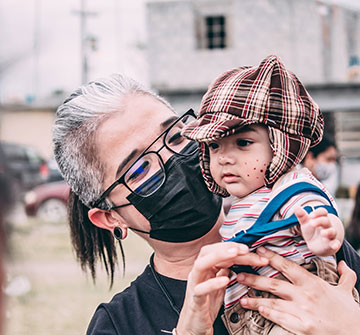
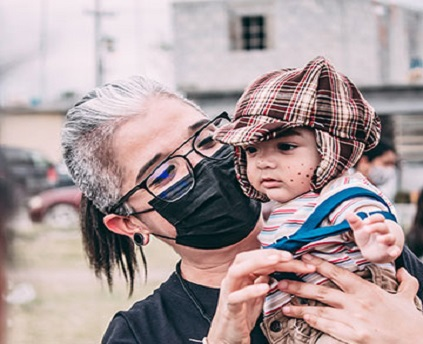
done with website

diff --git a/index.html b/index.html
@@ -71,14 +71,14 @@
             <div class="container">
                 <div class="header__inner-1">
                     <div class="logo">
-                        <img src="assets/img/logo/logo.png" alt="logo">
+                        <img src="assets/img/logo/logo.png" style="height: 90px;" alt="logo">
                     </div>
                     <div class="navbar">
                         <ul class="header__menu-1" id="mobile-menu">
                             <li><a href="#hero">Home</a></li>
-                            <li><a href="#service">Services</a></li>
-                            <li><a href="#portfolio">Portfolio</a></li>
-                            <li><a href="#blog">Blog</a></li>
+                            <li><a href="#aboutus">About Us</a></li>
+                            <li><a href="#gallery">Gallery</a></li>
+                            <li><a href="#ourworks">Our Works</a></li>
                             <li><a href="#donate">Donate</a></li>
                         </ul>
                     </div>
@@ -109,21 +109,8 @@
                         <div class="heroright1">
                             <span class="box1"></span>
                             <span class="box2"></span>
-                            <div class="box3">
-                                <span class="box3__count">10</span>
-                                <span class="box3__years">Years Of<br>
-                                    Together</span>
-                            </div>
-                            <div class="box3 box4">
-                                <span class="box3__count">600</span>
-                                <span class="box3__years">Projects <br>
-                                    Hope</span>
-                            </div>
-                            <div class="box5">
-                                <img src="assets/img/hero/trophy.png" alt="trophy">
-                            </div>
                             <div class="heroright1__thumb">
-                                <img src="assets/img/hero/with-box.png" alt="main-hero">
+                                <img src="assets/img/hero/women_empowerment_hero.png" style="width: 885px; scale: 0.6;" alt="main-hero">
                             </div>
                         </div>
                     </div>
@@ -136,17 +123,7 @@
                     <h2 class="title">Hope For All</h2>
                 </div>
                 <div class="responsive__thumb">
-                    <img src="assets/img/hero/with-box.png" alt="main-hero">
-                    <div class="box3 res-box3">
-                        <span class="box3__count res__count">10</span>
-                        <span class="box3__years">Years Of<br>
-                            Together</span>
-                    </div>
-                    <div class="box3 box4 res-box4">
-                        <span class="box3__count res2__count">600</span>
-                        <span class="box3__years res2__years">Projects of<br>
-                            Completion</span>
-                    </div>
+                    <img src="assets/img/hero/women_empowerment_hero.png" alt="main-hero" style="scale: 0.8;">
                 </div>
                 <p class="hero1__dis1">Empowering Lives Through Education and Support</p>
                 <p class="hero1__dis2">Lighting the Path to Education, Equality, and Empowerment.</p>
@@ -155,8 +132,8 @@
         </div>
         <!-- /hero  -->
 
-        <!-- service  -->
-        <div class="service__area-1" id="service" style="padding: 30px 0px;">
+        <!-- aboutus  -->
+        <div class="service__area-1" id="aboutus" style="padding: 30px 0px;">
             <div class="container">
                 <div class="col-xl-12 text-center">
                     <div class="section__wrapper">
@@ -215,7 +192,7 @@
                 </div>
             </div>
         </div>
-        <!-- /service  -->
+        <!-- /aboutus  -->
 
         <!-- counter  -->
         <div class="counter__area-1">
@@ -256,8 +233,8 @@
         </div>
         <!-- /counter  -->
 
-        <!-- portfolio -->
-        <div class="portfolio__area-1 pt-145" id="portfolio">
+        <!-- gallery -->
+        <div class="portfolio__area-1 pt-145" id="gallery">
             <div class="container">
                 <div class="col-xl-12 text-center">
                     <div class="section__wrapper">
@@ -293,7 +270,7 @@
                         <div class="portfolio mb-30 wow animate__animated animate__fadeIn" data-wow-duration=".5s"
                             data-wow-delay=".9s">
                             <div class="portfolio__thumb">
-                                <img src="assets/img/works/women_3.jpg" alt="">
+                                <img src="assets/img/works/women_3.jpg" alt="" style="width: 100%; height: 350px;">
                                 <a class="popup-image" href="assets/img/portfolio/port2.jpg">
                                     <i class="ti-plus"></i>
                                 </a>
@@ -335,7 +312,7 @@
                         <div class="portfolio mb-30 wow animate__animated animate__fadeIn" data-wow-duration=".5s"
                             data-wow-delay="1.9s">
                             <div class="portfolio__thumb">
-                                <img src="assets/img/works/children_2.jpg" alt="">
+                                <img src="assets/img/works/children_2.jpg" style="width: 100%;" alt="">
                                 <a class="popup-image" href="assets/img/portfolio/port5.jpg">
                                     <i class="ti-plus"></i>
                                 </a>
@@ -349,7 +326,7 @@
                         <div class="portfolio mb-30 wow animate__animated animate__fadeIn" data-wow-duration=".5s"
                             data-wow-delay="2.5s">
                             <div class="portfolio__thumb">
-                                <img src="assets/img/works/children_1.jpg" alt="">
+                                <img src="assets/img/works/children_1.jpg" style="width: 100%;" alt="">
                                 <a class="popup-image" href="assets/img/portfolio/port7.jpg">
                                     <i class="ti-plus"></i>
                                 </a>
@@ -362,10 +339,10 @@
                 </div>
             </div>
         </div>
-        <!-- /portfolio -->
+        <!-- /gallery -->
 
-        <!-- blog  -->
-        <div class="blog__area-1" id="blog">
+        <!-- ourworks  -->
+        <div class="blog__area-1" id="ourworks">
             <div class="container">
                 <div class="col-xl-12 text-center">
                     <div class="section__wrapper">
@@ -377,7 +354,7 @@
                     <div class="col-md-6 col-lg-4">
                         <div class="blog">
                             <div class="blog__thumb">
-                                <img src="assets/img/blog/thank-you-2022-scaled.webp" alt="blog">
+                                <img src="assets/img/blog/child_1.jpg" style="width: 100%;" alt="blog">
                             </div>
                             <div class="blog__content">
                                 <span class="blog__content__cat">Web Design</span>
@@ -393,7 +370,7 @@
                     <div class="col-md-6 col-lg-4">
                         <div class="blog">
                             <div class="blog__thumb">
-                                <img src="assets/img/blog/thank-you-2022-scaled.webp" alt="blog">
+                                <img src="assets/img/blog/child_2.jpg" style="width: 100%;" alt="blog">
                             </div>
                             <div class="blog__content">
                                 <span class="blog__content__cat">Web Design</span>
@@ -409,7 +386,7 @@
                     <div class="col-md-6 col-lg-4">
                         <div class="blog">
                             <div class="blog__thumb">
-                                <img src="assets/img/blog/thank-you-2022-scaled.webp" alt="blog">
+                                <img src="assets/img/blog/women_1.jpg" style="width: 100%;" alt="blog">
                             </div>
                             <div class="blog__content">
                                 <span class="blog__content__cat">Graphics</span>
@@ -426,10 +403,10 @@
                 </div>
             </div>
         </div>
-        <!-- /blog  -->
+        <!-- /ourworks  -->
 
-        <!-- contact  -->
-        <div class="contact__area-1" id="contact">
+        <!-- donate  -->
+        <div class="contact__area-1" style="padding-bottom: 10px;" id="donate">
             <div class="container">
                 <div class="col-xl-12 text-center">
                     <div class="section__wrapper">
@@ -444,22 +421,21 @@
                                 <span class="social__icon"><i class="fa-solid fa-phone"></i></span>
                                 <div class="social__phone">
                                     <h4>Phone</h4>
-                                    <span><a href="tel:+1557446">+123 654 98752</a></span>
+                                    <span><a href="tel:+1557446">+123 456 7890</a></span>
                                 </div>
                             </div>
                             <div class="social">
                                 <span class="social__icon"><i class="fa-solid fa-envelope"></i></span>
                                 <div class="social__phone">
                                     <h4>Email</h4>
-                                    <span><a href="mailTo:Info@maria.com">Info@maria.com</a></span>
+                                    <span><a href="mailTo:Info@maria.com">hopeforall@task.com</a></span>
                                 </div>
                             </div>
                             <div class="social">
                                 <span class="social__icon"><i class="fa-solid fa-location-dot"></i></span>
                                 <div class="social__phone">
                                     <h4>Location</h4>
-                                    <span>2124 14th St
-                                        Meridian, MS 39301</span>
+                                    <span>Navi Mumbai, 410206</span>
                                 </div>
                             </div>
                         </div>
@@ -474,13 +450,20 @@
                                     <input type="email" name="email" placeholder="Email">
                                 </div>
                                 <div class="field-wrapper">
-                                    <input type="text" name="name" placeholder="Subject">
+                                    <input type="number" name="name" placeholder="Donate Amount">
+                                </div>
+                                <div class="field-wrapper">
+                                    <select class="form-control" style="color: gray; width: 100%; height: 50px;">
+                                        <option>Choose</option>
+                                        <option>Donater</option>
+                                        <option>Volunteer</option>
+                                    </select>
                                 </div>
                                 <div class="field-wrapper">
                                     <textarea name="message" placeholder="Message"></textarea>
                                 </div>
                                 <div class="field-wrapper">
-                                    <input type="submit" name="name" value="Submit Message">
+                                    <input type="submit" name="name" value="Submit">
                                 </div>
                             </form>
                         </div>
@@ -493,6 +476,7 @@
         <!-- footer  -->
         <footer>
             <div class="copyright_text text-center">
+                <div class="container" style="padding-bottom: 30px;"><h2 class="section-title text-white">Our focus to heal the world together and give empowerment to everyone need</h2></div>
                 <div class="container">
                     <div class="copyright__wrapper">
                         <p>Copyright &copy; 2022 . All Rights Reserved.</p>
